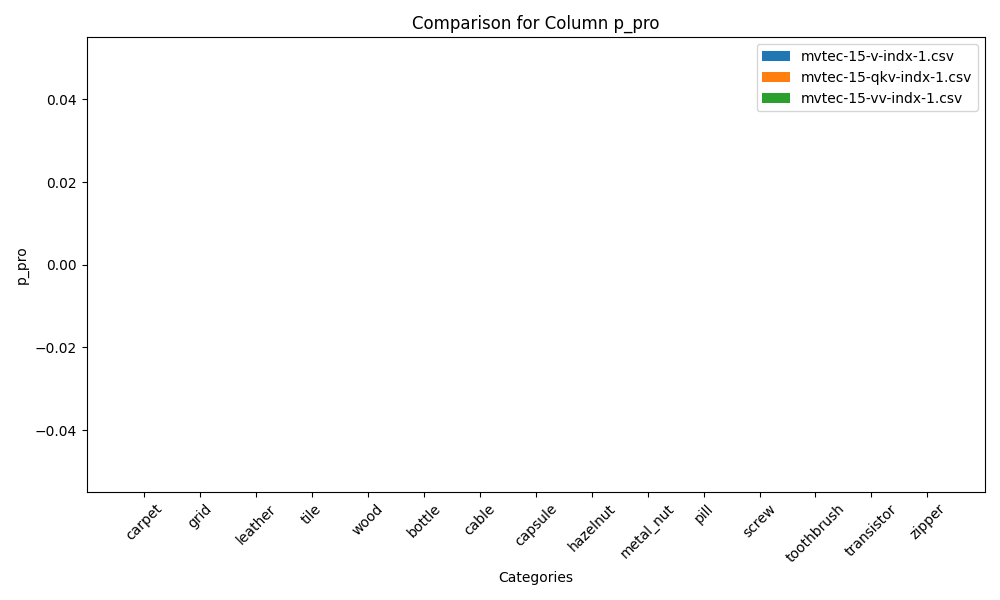
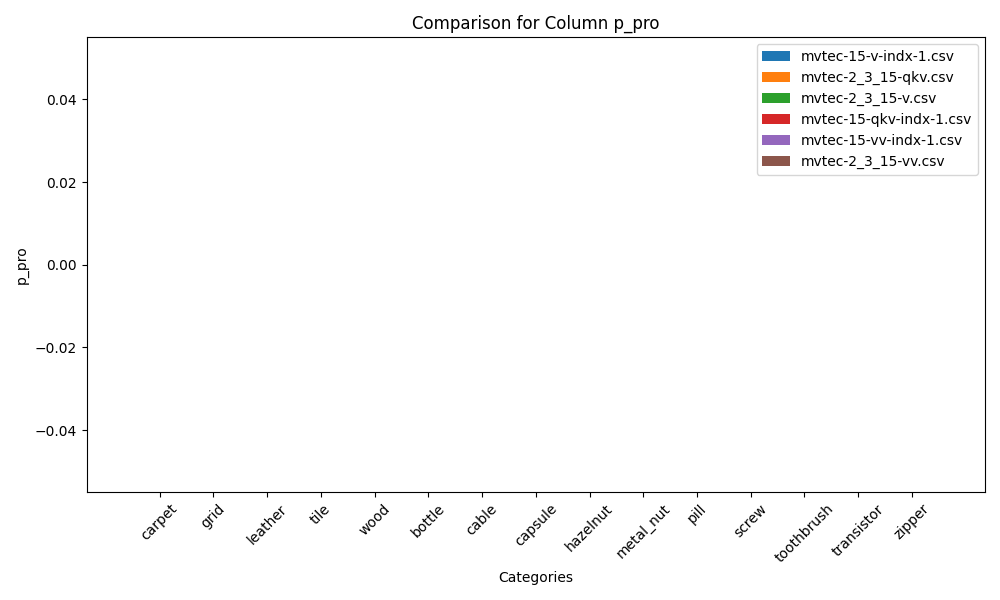
Improve the experiments and visualization

diff --git a/WinClip_zzx/main.py b/WinClip_zzx/main.py
@@ -69,9 +69,9 @@ def get_args():
 
     # method related parameters
     parser.add_argument('--k-shot', type=int, default=0)
-    # parser.add_argument('--scales', nargs='+', type=int, default=(2, 3, 15)) 
-    parser.add_argument('--scales', nargs='+', type=int, default=(15))
-    parser.add_argument('--attention_mode', type=str, choices=['vv', 'v', 'qkv'], default='vv') 
+    parser.add_argument('--scales', nargs='+', type=tuple, default=(2, 3, 15)) 
+    # parser.add_argument('--scales', nargs='+', type=int, default=(15))
+    parser.add_argument('--attention_mode', type=str, choices=['vv', 'v', 'qkv'], default='v') 
     parser.add_argument("--backbone", type=str, default="ViT-B-16-plus-240",
                         choices=['ViT-B-16-plus-240'])
     parser.add_argument("--pretrained_dataset", type=str, default="laion400m_e32")

diff --git a/WinClip_zzx/utils/visualization.py b/WinClip_zzx/utils/visualization.py
@@ -42,7 +42,7 @@ def plot_sample_cv2(names, imgs, scores_: dict, gts, save_folder=None):
 
         for key in scores:
             heat_map = cv2.applyColorMap(scores[key][idx], cv2.COLORMAP_JET)
-            visz_map = cv2.addWeighted(heat_map, 0.5, imgs[idx], 0.5, 0)
+            visz_map = cv2.addWeighted(heat_map, 0.6, imgs[idx], 0.4, 0)
             cv2.imwrite(os.path.join(save_folder, f'{names[idx]}_{key}.jpg'),
                         visz_map)
 

diff --git a/WinClip_zzx/utils/training_utils.py b/WinClip_zzx/utils/training_utils.py
@@ -37,7 +37,7 @@ def get_dir_from_args(root_dir, class_name, **kwargs):
     # exp_name = f"{kwargs['dataset']}-{kwargs['k_shot']}"
 
     csv_dir = os.path.join(root_dir, 'csv')
-    csv_path = os.path.join(csv_dir, f"{exp_name}-indx-{kwargs['experiment_indx']}.csv")
+    csv_path = os.path.join(csv_dir, f"{exp_name}.csv")
 
     model_dir = os.path.join(root_dir, exp_name, 'models')
     img_dir = os.path.join(root_dir, exp_name, 'imgs')
